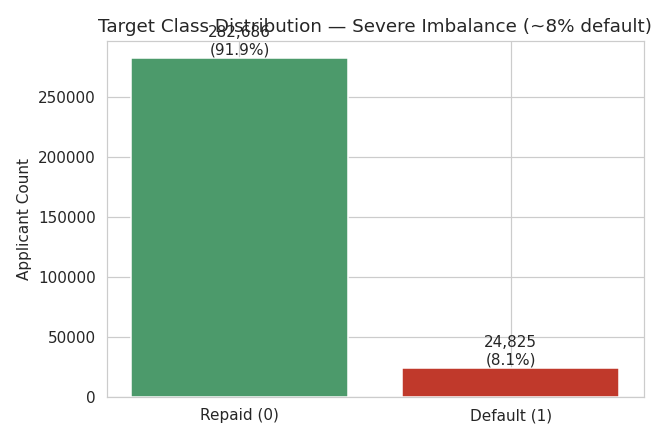
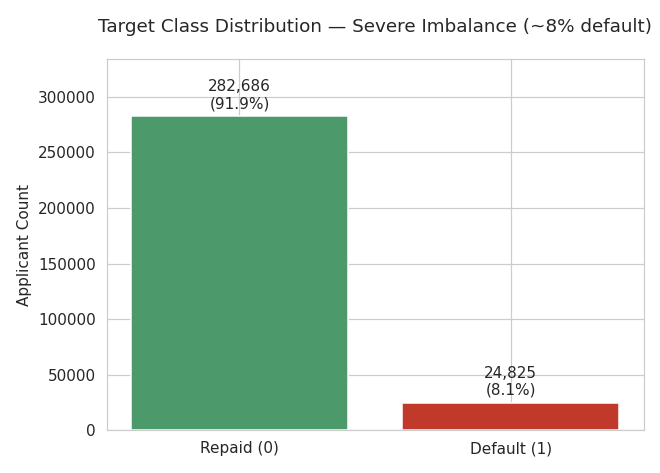
Fix Groq model: llama-3.3-70b-versatile moved to Enterprise-only tier
Switched default/example model to openai/gpt-oss-120b, which remains on
Groq's free developer tier with real per-token free-tier rate limits
(250K TPM / 1K RPM), unlike llama-3.3-70b-versatile which now requires
an Enterprise contract and returns a 404 on free-tier keys.

Also regenerated EDA charts via a new, reusable scripts/generate_eda_charts.py
(previously only existed as an ad-hoc snippet) to fix a label/title overlap
on the target distribution chart.

diff --git a/scripts/generate_eda_charts.py b/scripts/generate_eda_charts.py
@@ -1,0 +1,128 @@
+"""
+scripts/generate_eda_charts.py
+
+Generates all EDA charts used in notebooks/eda.ipynb and ui/app.py's EDA
+section. Run this any time the underlying data changes and charts need
+regenerating.
+
+Usage:
+    python scripts/generate_eda_charts.py
+"""
+import sys
+sys.path.insert(0, ".")
+
+import pandas as pd
+import numpy as np
+import matplotlib
+matplotlib.use("Agg")
+import matplotlib.pyplot as plt
+import seaborn as sns
+
+sns.set_style("whitegrid")
+plt.rcParams["figure.facecolor"] = "white"
+
+OUT_DIR = "notebooks/eda_charts"
+
+
+def main():
+    df = pd.read_parquet("data/features_train.parquet")
+
+    # 1. Target distribution
+    fig, ax = plt.subplots(figsize=(6, 4.3))
+    counts = df["TARGET"].value_counts()
+    ax.bar(["Repaid (0)", "Default (1)"], counts.values, color=["#4C9A6B", "#C0392B"])
+    ax.set_title("Target Class Distribution \u2014 Severe Imbalance (~8% default)", pad=18)
+    ax.set_ylabel("Applicant Count")
+    ax.set_ylim(0, counts.values.max() * 1.18)  # headroom so labels never collide with the title
+    for i, v in enumerate(counts.values):
+        ax.text(i, v + counts.values.max() * 0.025, f"{v:,}\n({v/len(df)*100:.1f}%)", ha="center")
+    plt.tight_layout()
+    plt.savefig(f"{OUT_DIR}/01_target_distribution.png", dpi=110)
+    plt.close()
+
+    # 2. Default rate by age group
+    d = df.copy()
+    d["age_group"] = pd.cut(d["YEARS_BIRTH"], bins=[20, 30, 40, 50, 60, 70],
+                             labels=["20-30", "30-40", "40-50", "50-60", "60-70"])
+    grp = d.groupby("age_group", observed=True)["TARGET"].mean() * 100
+    fig, ax = plt.subplots(figsize=(7, 4.3))
+    ax.bar(grp.index.astype(str), grp.values, color="#2E86AB")
+    ax.set_title("Default Rate by Age Group \u2014 Younger Applicants Are Riskier", pad=14)
+    ax.set_ylabel("Default Rate (%)")
+    ax.set_xlabel("Age Group")
+    ax.set_ylim(0, grp.values.max() * 1.2)
+    for i, v in enumerate(grp.values):
+        ax.text(i, v + grp.values.max() * 0.03, f"{v:.1f}%", ha="center")
+    plt.tight_layout()
+    plt.savefig(f"{OUT_DIR}/02_default_by_age.png", dpi=110)
+    plt.close()
+
+    # 3. Default rate by income type
+    grp = df.groupby("NAME_INCOME_TYPE")["TARGET"].agg(["mean", "count"])
+    grp = grp[grp["count"] > 50].sort_values("mean", ascending=False) * [100, 1]
+    fig, ax = plt.subplots(figsize=(8, 4.5))
+    ax.barh(grp.index.astype(str), grp["mean"], color="#E67E22")
+    ax.set_title("Default Rate by Employment/Income Type", pad=14)
+    ax.set_xlabel("Default Rate (%)")
+    plt.tight_layout()
+    plt.savefig(f"{OUT_DIR}/03_default_by_income_type.png", dpi=110)
+    plt.close()
+
+    # 4. Bureau overdue history vs default
+    d = df.copy()
+    d["bureau_overdue"] = np.where(d["bureau_overdue_loan_count"].fillna(0) > 0,
+                                     "Has Overdue\nBureau Loan", "No Overdue\nBureau Loan")
+    grp = d.groupby("bureau_overdue")["TARGET"].mean() * 100
+    fig, ax = plt.subplots(figsize=(6, 4.3))
+    ax.bar(grp.index, grp.values, color=["#C0392B", "#4C9A6B"])
+    ax.set_title("External Bureau History Is a Strong Risk Signal\n(2x default rate with overdue bureau loans)", pad=14)
+    ax.set_ylabel("Default Rate (%)")
+    ax.set_ylim(0, grp.values.max() * 1.2)
+    for i, v in enumerate(grp.values):
+        ax.text(i, v + grp.values.max() * 0.03, f"{v:.1f}%", ha="center")
+    plt.tight_layout()
+    plt.savefig(f"{OUT_DIR}/04_default_by_bureau_overdue.png", dpi=110)
+    plt.close()
+
+    # 5. Prior refusal history vs default
+    d = df.copy()
+    d["refused"] = np.where(d["prev_refused_count"].fillna(0) > 0, "Previously\nRefused", "Never\nRefused")
+    grp = d.groupby("refused")["TARGET"].mean() * 100
+    fig, ax = plt.subplots(figsize=(6, 4.3))
+    ax.bar(grp.index, grp.values, color=["#C0392B", "#4C9A6B"])
+    ax.set_title("Prior Loan Refusal History Predicts Future Default", pad=14)
+    ax.set_ylabel("Default Rate (%)")
+    ax.set_ylim(0, grp.values.max() * 1.2)
+    for i, v in enumerate(grp.values):
+        ax.text(i, v + grp.values.max() * 0.03, f"{v:.1f}%", ha="center")
+    plt.tight_layout()
+    plt.savefig(f"{OUT_DIR}/05_default_by_prior_refusal.png", dpi=110)
+    plt.close()
+
+    # 6. Credit-Income ratio distribution split by target
+    fig, ax = plt.subplots(figsize=(7, 4.5))
+    for target, color, label in [(0, "#4C9A6B", "Repaid"), (1, "#C0392B", "Default")]:
+        subset = df[(df["TARGET"] == target) & (df["CREDIT_INCOME_RATIO"] < 15)]["CREDIT_INCOME_RATIO"]
+        sns.kdeplot(subset, ax=ax, color=color, label=label, fill=True, alpha=0.3)
+    ax.set_title("Credit-to-Income Ratio Distribution by Outcome", pad=14)
+    ax.set_xlabel("Credit / Income Ratio")
+    ax.legend()
+    plt.tight_layout()
+    plt.savefig(f"{OUT_DIR}/06_credit_income_ratio_dist.png", dpi=110)
+    plt.close()
+
+    # 7. Missing data overview (top 20)
+    missing = (df.isnull().mean() * 100).sort_values(ascending=False).head(20)
+    fig, ax = plt.subplots(figsize=(8, 6.2))
+    ax.barh(missing.index[::-1], missing.values[::-1], color="#95A5A6")
+    ax.set_title("Top 20 Columns by Missing Data %", pad=14)
+    ax.set_xlabel("% Missing")
+    plt.tight_layout()
+    plt.savefig(f"{OUT_DIR}/07_missing_data.png", dpi=110)
+    plt.close()
+
+    print("All 7 EDA charts regenerated in", OUT_DIR)
+
+
+if __name__ == "__main__":
+    main()

diff --git a/src/utils/config.py b/src/utils/config.py
@@ -17,7 +17,7 @@ DB_PATH = os.getenv("DB_PATH", str(DATA_DIR / "credit_risk.duckdb"))
 
 # --- LLM ---
 GROQ_API_KEY = os.getenv("GROQ_API_KEY", "")
-GROQ_MODEL = os.getenv("GROQ_MODEL", "llama-3.3-70b-versatile")
+GROQ_MODEL = os.getenv("GROQ_MODEL", "openai/gpt-oss-120b")
 
 # --- Risk bands ---
 RISK_LOW_THRESHOLD = float(os.getenv("RISK_LOW_THRESHOLD", 0.10))

diff --git a/README.md b/README.md
@@ -190,7 +190,7 @@ Sample output (from `documents/derived_business_rules.csv`):
 
 ## 9. Talk-to-Data: Prompt Engineering & Hallucination Control
 
-**LLM provider:** [Groq](https://console.groq.com) (Llama 3.3 70B) — chosen over OpenAI/Anthropic because it has a genuinely free tier (no card required), which matters since an evaluator running this repo shouldn't need to spend their own money, and its inference speed keeps the chatbot feeling responsive.
+**LLM provider:** [Groq](https://console.groq.com) (GPT-OSS 120B) — chosen over OpenAI/Anthropic because it has a genuinely free tier (no card required), which matters since an evaluator running this repo shouldn't need to spend their own money, and its inference speed keeps the chatbot feeling responsive.
 
 **Two-stage prompting** (`src/talk_to_data/prompt_templates.py`):
 1. **SQL generation** — the LLM is given an explicit, exhaustive schema description (only 4 real tables, exact column names/types) and few-shot examples, and instructed to output *only* SQL, `LIMIT`-bounded, or a `NO_QUERY:` refusal if the question is unanswerable from the schema. Temperature 0.1 for consistency.
@@ -233,7 +233,7 @@ All of the above was tested against real adversarial inputs (`DROP TABLE`, chain
 | ML model | LightGBM | Native categorical + missing-value handling, fast on this scale |
 | Explainability | SHAP (TreeExplainer) | Exact (not approximate) for tree models |
 | Database | DuckDB | Fast in-process SQL on CSV-scale data, doubles as the chatbot's query target |
-| LLM | Groq (Llama 3.3 70B) | Free tier, fast inference, no cost burden on the evaluator |
+| LLM | Groq (GPT-OSS 120B) | Free tier, fast inference, no cost burden on the evaluator |
 | UI | Streamlit | Fast to build a clean multi-section app; matches "lightweight platform" framing |
 | Deployment | Docker + Docker Compose | Single-command reproducible run, as required |
 
